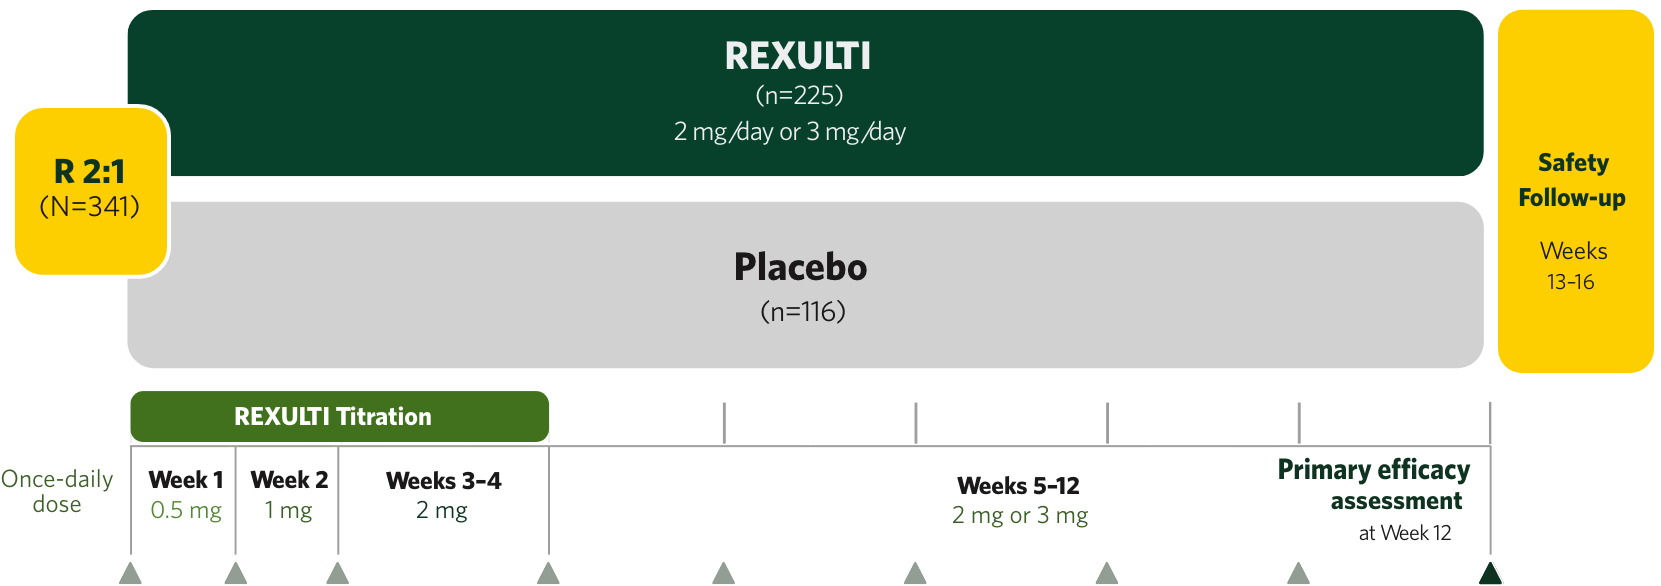
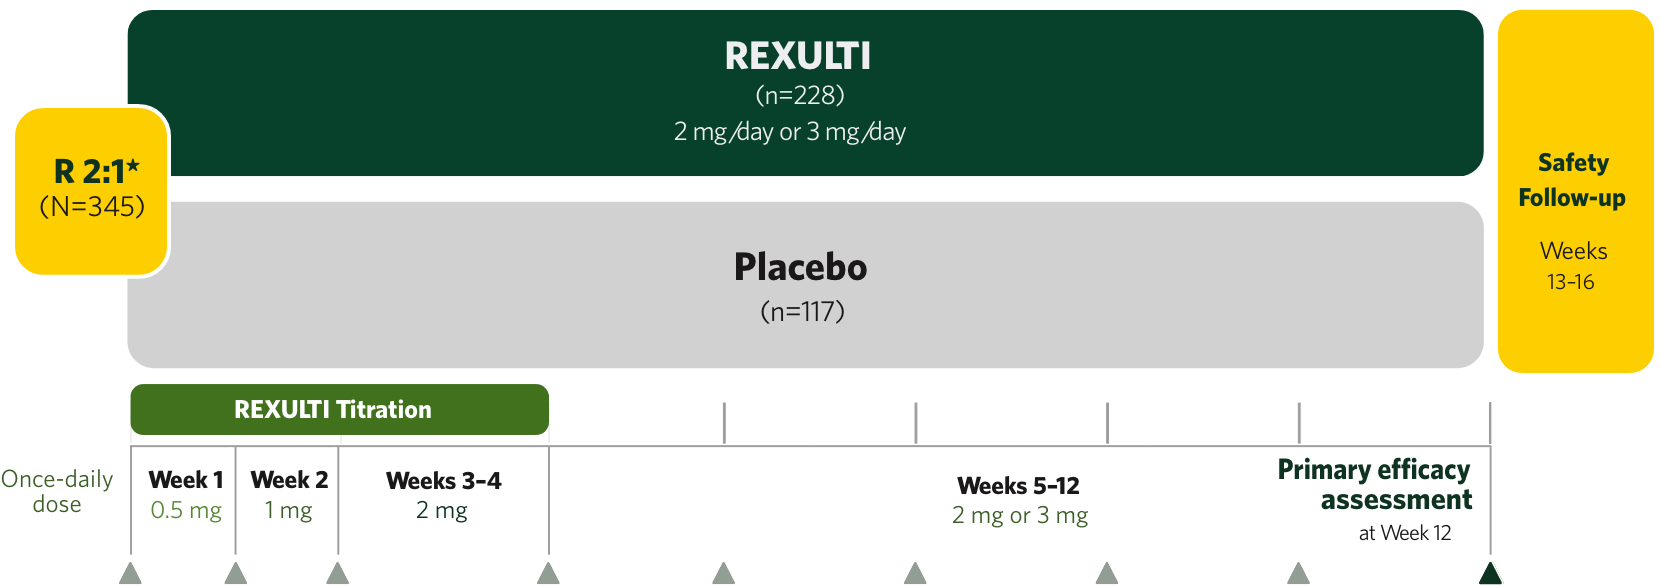
DF-34839 | R1 - R.3.4.1_Study_7

diff --git a/projects/veeva-clm/src/Components/04-templates/Layouts/Modal/ModalSelectionCriteria2/ModalSelectionCriteria2.tsx b/projects/veeva-clm/src/Components/04-templates/Layouts/Modal/ModalSelectionCriteria2/ModalSelectionCriteria2.tsx
@@ -32,10 +32,11 @@ export const ModalSelectionCriteria2 = () => (
             {
               innerText: (
                 <span>
-                  CT, computed tomography; MRI, magnetic resonance imaging;
-                  MMSE, Mini-Mental State Examination;
-                  NPI/NPI-NH=Neuropsychiatric Inventory/Neuropsychiatric
-                  Inventory-Nursing Home version.
+                  CMAI, Cohen-Mansfield Agitation Inventory; CT, computed
+                  tomography; IPA, International Psychogeriatric Association;
+                  MRI, magnetic resonance imaging; MMSE, Mini-Mental State
+                  Examination; NPI, Neuropsychiatric Inventory; NPI-NH,
+                  Neuropsychiatric Inventory − Nursing Home version.
                 </span>
               ),
             },
@@ -76,13 +77,18 @@ export const ModalSelectionCriteria2 = () => (
                 text: <>With a diagnosis of probable Alzheimer’s disease</>,
               },
               {
-                text: <>With a diagnosis of agitation</>,
+                text: (
+                  <>
+                    With a diagnosis of agitation meeting IPA provisional
+                    definition
+                  </>
+                ),
               },
               {
                 text: (
                   <>
                     With an MMSE score of 5 to 22, inclusive, at screening and
-                    baseline visits{' '}
+                    baseline visits
                   </>
                 ),
               },
@@ -90,7 +96,7 @@ export const ModalSelectionCriteria2 = () => (
                 text: (
                   <>
                     With a previous MRI or CT scan of the brain that was
-                    performed after the onset of symptoms of dementia, with
+                    performed after the onset of symptoms of dementia with
                     findings consistent with a diagnosis of Alzheimer’s disease
                   </>
                 ),
@@ -110,6 +116,9 @@ export const ModalSelectionCriteria2 = () => (
                     the NPI/NPI-NH
                   </>
                 ),
+              },
+              {
+                text: <>Subject met eligibility criteria for CMAI Factor 1</>,
               },
               {
                 text: (

diff --git a/projects/veeva-clm/src/Components/05-pages/R.3.4.1_Study_7/R.3.4.1_Study_7.tsx b/projects/veeva-clm/src/Components/05-pages/R.3.4.1_Study_7/R.3.4.1_Study_7.tsx
@@ -19,7 +19,7 @@ const PageContent = () => {
       <Header custom={`${styles.h1} mb-12 mt-30`}>
         Study Design<sup>1</sup>
       </Header>
-      <div className={`${styles.study_design_points} mb-50`}>
+      <div className={`${styles.study_design_points} mb-60`}>
         <Paragraph>
           <strong>Study objective:</strong> To assess the efficacy, safety, and
           tolerability of 2 fixed doses of REXULTI® (brexpiprazole) in patients
@@ -45,6 +45,15 @@ const PageContent = () => {
           custom: `mb-8 ${styles.footnote}`,
           data: [
             {
+              innerText: (
+                <>
+                  <sup className='sup-left sup-left-asterisk'>*</sup>Efficacy
+                  sample contained n=224 for REXULTI 2 mg/day or 3 mg/day and
+                  n=116 for placebo.
+                </>
+              ),
+            },
+            {
               innerText:
                 'AAD, agitation associated with Alzheimer’s dementia; CMAI, Cohen-Mansfield Agitation Inventory.',
             },
@@ -54,7 +63,12 @@ const PageContent = () => {
           custom: 'mb-10',
           data: [
             {
-              text: <span>Data on file. Otsuka.</span>,
+              text: (
+                <span>
+                  Grossberg GT, et al. Poster presented at: Psych Congress;
+                  September 17-20, 2022; New Orleans, LA.
+                </span>
+              ),
             },
           ],
         }}

diff --git a/projects/veeva-clm/src/Components/04-templates/Layouts/Modal/ModalDemographic2/ModalDemographic2.tsx b/projects/veeva-clm/src/Components/04-templates/Layouts/Modal/ModalDemographic2/ModalDemographic2.tsx
@@ -26,15 +26,14 @@ export const ModalDemographics2 = () => (
     link={<Button text='Demographics' custom='button__type-a--active' />}
     footer={
       <Footer
-        custom={classNames(style.footer, 'mb-20', 'mw-839')}
+        custom={classNames(style.footer, 'mb-10', 'mw-839')}
         footnotes={{
           data: [
             {
               innerText: (
                 <span>
-                  CGI-S, Clinical Global Impression – Severity of Illness; CMAI,
-                  Cohen-Mansfield Agitation Inventory; MMSE, Mini-Mental State
-                  Examination.
+                  CMAI, Cohen-Mansfield Agitation Inventory; MMSE, Mini-Mental
+                  State Examination.
                 </span>
               ),
             },
@@ -44,7 +43,12 @@ export const ModalDemographics2 = () => (
           custom: 'mt-9',
           data: [
             {
-              text: <span>Data on file. Otsuka.</span>,
+              text: (
+                <span>
+                  Grossberg GT, et al. Poster presented at: Psych Congress;
+                  September 17-20, 2022; New Orleans, LA.
+                </span>
+              ),
             },
           ],
         }}

diff --git a/projects/veeva-clm/src/Components/05-pages/R.3.4.1_Study_7/R.3.4.1_Study_7.module.scss b/projects/veeva-clm/src/Components/05-pages/R.3.4.1_Study_7/R.3.4.1_Study_7.module.scss
@@ -24,10 +24,6 @@
 
     ul li {
       line-height: 12px;
-
-      sup {
-        font-size: 6px;
-      }
     }
   }
 
